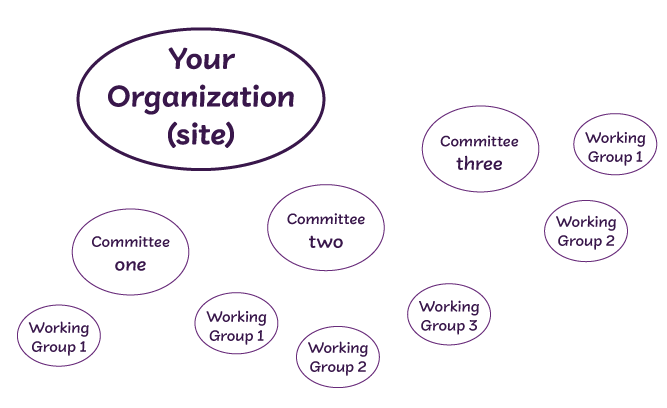
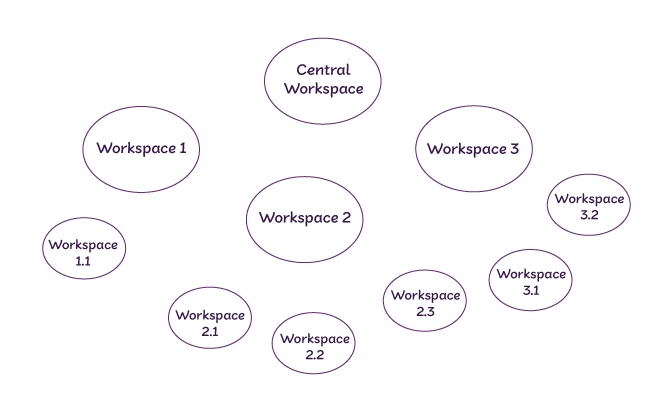
udates to website

diff --git a/circleweaver_com/Pricing.html b/circleweaver_com/Pricing.html
@@ -13,7 +13,7 @@
   <body>
     <header id="masthead" class="site-header">
       <div class="site-header-main container-fluid">
-        <div class="site-branding">
+        <div class="site-branding pl-5">
           <a href="index.html" class="custom-logo-link" rel="home" itemprop="url">
             <img src="images/cropped-weaver-logotype-1.png" class="custom-logo" alt="Circle Weaver" itemprop="logo" width="300" height="110"><p class="h4">Weave Your Group Together</p></a>
           <p class="site-title"><a href="index.html" rel="home">Circle Weaver</a></p>
@@ -67,7 +67,10 @@
 
     <section class="container-fluid m-3 pb-5">
       <div class="row col-12 mx-5 d-flex mt-5 mb-0">
-          <h1><b>Super Simple Pricing Structure</b></h1>
+          <h1><b>What is Circle Weaver?</b></h1>
+      </div>
+      <div class="row col-10 mx-5 d-flex">
+          <span class="h3 px-3">Circle Weaver helps you create a shared office space. A Circle Weaver Site is a virtual setting that supports clear communication and collaboration, keeping your organization functioning smoothly.</span>
       </div>
     </section>
     <section class="jumbotron row pb-5">
@@ -79,7 +82,7 @@
                 <img src="images/check.png" class="ml-1" alt="checkmark" aria-hidden="true">
             </span>
             <span class="col-11">           
-              <p class="bio-text" style="line-height: 1.6em;">CircleWeaver is a web-based application that allows you to create a site for your organization.</p>
+              <p class="bio-text" style="line-height: 1.6em;">Circle Weaver is a web-based application that allows you to create an online office space for your company or organization.</p>
             </span>
           </div>
           <div class="row col-12 d-flex">
@@ -87,7 +90,7 @@
               <img src="images/check.png" class="ml-1" alt="checkmark" aria-hidden="true">
             </span>
             <span class="col-11">
-              <p class="bio-text" style="line-height: 1.6em;">You can create and manage Workspaces for each committee or working group.</p>
+              <p class="bio-text" style="line-height: 1.6em;">You can create and manage Workspaces for each department, committee, or working group.</p>
             </span>
           </div>
           <div class="row col-12 d-flex">
@@ -96,7 +99,7 @@
             </span>
             <span class="col-11">
               <p class="bio-text" style="line-height: 1.6em;">Your CircleWeaver Site will grow with your organization...</p> 
-              <p class="h3 float-right" ><b>And you can start for free! </b>
+              <p class="h3 float-right"><b>And there is no cost to start!</b>
               </p>
             </span>  
           </div>
@@ -118,15 +121,15 @@
               <img alt="Weaver Workspace Icon" src="images/workspace-icon.png" data-holder-rendered="true"></span>
             <span class="col-9 mt-3" >
               <h3 style="line-height: 1.2em;">1 CircleWeaver Workspace</h3>
-              <p class="bio-text px-3">The Workspace supports a group of people working together on a project.</p>
+              <p class="bio-text px-3">A Workspace supports a group of people working together.</p>
             </span>
           </div>
           <div class="row col-12 d-flex ml-5 pl-5">
             <span class="col-2 mt-2">
               <img alt="Weaver User Icon" src="images/user-icon.png" data-holder-rendered="true"></span>
             <span class="col-9 mt-3 mr-2">
-              <h3 style="line-height: 1.2em;">1 Workspace Administrator</h3>
-              <p class="bio-text px-3">The Administrator manages and makes organizational changes to the site and can serve as a steward in any Workspace within the site.</p>
+              <h3 style="line-height: 1.2em;">1 Site Administrator</h3>
+              <p class="bio-text px-3">The Administrator manages and makes organizational changes to the Site and can serve as a Steward in any Workspace within the Site.</p>
             </span>
           </div>
           <div class="row col-12 d-flex ml-5 pl-5">
@@ -134,8 +137,8 @@
                 <img alt="Weaver User Icon" src="images/users-icon.png" data-holder-rendered="true"></span>
               <span class="col-9 mt-3 mr-2">
                 <h3 >Plus up to 20 Members!</h3>
-                <p class="bio-text px-3">Unpaid users with read-only access will still be able to attend meetings, access
-                materials, receive email, and participate in the group with comments and responses to questions.</p>
+                <p class="bio-text px-3">Basic users attend meetings, access
+                materials, receive email, and participate in meetings and group discussions with comments and responses to questions.</p>
               </span>
           </div>
         </span>
@@ -145,7 +148,7 @@
     </section>
     <section class="jumbotron row pb-5">
       <div class="container-fluid row col-12 d-flex pl-5 ml-5">
-        <h2 class="ml-5 mb-5">Grow your Circle Weaver Site with additional Workspaces!</h2>
+        <h2 class="ml-5 mb-5">Step Two: Grow your Circle Weaver Site with additional Workspaces!</h2>
       </div>
       <div class="container-fluid d-flex pl-5 ml-3">
         <span class="mr-0 pr-0 pl-5">
@@ -153,15 +156,15 @@
             <span class="col-1 mt-2">
               <img alt="Weaver Workspace Icon" src="images/addWorkspace-icon.png" data-holder-rendered="true"></span>
             <span class="col-10 mt-3 ml-5">
-              <h3 style="line-height: 1.6em;">Need an Additional Active Workspace? &nbsp; &nbsp; &nbsp; &nbsp; &nbsp;$2 per month</h3>
-              <p class="bio-text pl-3" style="line-height: 1.5em;"> With each paid (Active) Workspace, you get 4 additional Frozen Workspaces.<br><em>Only Active Workspaces are charged. Workspaces can be frozen at any time and then cost nothing.</em> </p></span>
+              <h3 style="line-height: 1.6em;">Need Additional Workspaces? &nbsp; &nbsp; &nbsp; &nbsp; &nbsp;$2 each per month</h3>
+              <p class="bio-text pl-3" style="line-height: 1.5em;"> You can control the number of Workspaces that you pay for each month.<br>Each workspace will need at least one Steward who is a full user and able to edit the Workspace.<br><em>Administrators can set limits on the number of workspaces allowed in the site.</em></p></span>
           </div>
           <div class="row col-12 row-cols-2 d-flex ml-5 pl-5">
             <span class="col-1 mt-2">
               <img alt="Weaver Workspace Icon" src="images/addUser-icon.png" data-holder-rendered="true"></span>
             <span class="col-10 mt-3 ml-5">
               <h3 style="line-height: 1.6em;">Need Additional Stewards? &nbsp; &nbsp; &nbsp; &nbsp; &nbsp;$1 per month</h3>
-              <p class="bio-text pl-3" style="line-height: 1.5em;">Additional paid users can be added to any Workspace at any time for $1 per user.<br><em>Administrators can set limits on the number of paid users allowed in the site.</em></p></span>
+              <p class="bio-text pl-3" style="line-height: 1.5em;">With additional workspaces, you may need additional Stewards, who are full users and can edit and organize a Workspace. You can add Stewards at any time for $1 per user per month.<br><em>Administrators can set limits on the number of full users allowed in the site.</em></p></span>
           </div>
         </span>
       </div>

diff --git a/circleweaver_com/Facilitators.html b/circleweaver_com/Facilitators.html
@@ -146,7 +146,19 @@
           <div class="row col-10 row-cols-2 m-5 d-flex">
             <span class="col-2"><img class="rounded-circle img-fluid" alt="Swarnalakshmi Ravi" src="images/swarna.png" data-holder-rendered="true"></span>
     
-            <span class="col-10"><h3>Swarnalakshmi Ravi</h3><p class="bio-text">Swarnalakshmi R, is a motivational speaker and holds two master degrees, one in Political Science from the University of Madras in India and another in international relations and global governance from Aston university in England where received one of ten scholarships for academic excellence from over 1000 applicants. The first person from India ever to receive one of the International Vice Chancellor scholarships. She became A certified facilitator in sociocracy Governance Method at the age of 22 after receiving a training from Governance Alive. Served in various positions of responsibilities in the Inclusive Neighbourhood Children’s Parliaments movement of India including as its National Child Prime Minister which also uses sociocracy as its governance method. Experienced at networking and team building through working with the children’s parliaments for 13 years. Helped to build a board software for children to efficiently organize and conduct meetings. At the age of 21, participated in making 2 app pitches to the Venture Capitalists of Silicon valley and EBAN. Addressed in United Nations four times as a keynote speaker at the ages of 13, 14, 16 and 17 advocating for Inclusive Education and for the prevention on violence against women and girls. Lobbied with the ambassadors and diplomats of about 20 countries. At present, also support for the World Children’s Parliament as a Global Convenor networking with children from across different continents whenever possible.</p>
+            <span class="col-10"><h3>Swarnalakshmi Ravi</h3><p class="bio-text">Swarnalakshmi R, is a motivational speaker and holds two master degrees, one in Political Science from the University of
+            Madras in India and another in international relations and global governance from Aston University in England, where she
+            received one of ten scholarships for academic excellence from over 1000 applicants and is the first person from India
+            ever to receive one of the International Vice Chancellor scholarships. She became A certified facilitator in sociocracy
+            Governance Method at the age of 22 after receiving training from Governance Alive. Swarnalakshmi held the position of
+            National Child Prime Minister and other positions of responsibility in the Inclusive Neighbourhood Children’s
+            Parliaments movement of India, which also uses sociocracy as its governance method. Experienced in networking and team
+            building through working with the children’s parliaments for 13 years, she helped to build a board software for children
+            to efficiently organize and conduct meetings. At the age of 21, she participated in making 2 app pitches to the Venture
+            Capitalists of Silicon Valley and EBAN. She has addressed the United Nations four times as a keynote speaker at the ages
+            of 13, 14, 16, and 17, advocating for Inclusive Education and the prevention of violence against women and girls, and
+            continues to lobby with the ambassadors and diplomats of about 20 countries. At present, she supports the World
+            Children’s Parliament as a Global Convenor, networking with children from across different continents whenever possible..</p>
               <p class="h5 my-1 ms-2"><a href="mailto:swarnalakshmiravi27@hotmail.com"><i class="fa fa-envelope-o"></i> swarnalakshmiravi27@hotmail.com</a></p>
               <p class="h5 my-1 ms-2"><i class="fa fa-map-marker"></i> Chennai, Tamil Nadu, India</p>
               <p class="h5 my-1 ms-2"><a href="https://www.linkedin.com/in/swarnalakshmi-ravi-3a8a1a191/" target="_blank"><i class="fa fa-linkedin-square" ></i> </a></p>            

diff --git a/circleweaver_com/css/weaverStyles9.22.css b/circleweaver_com/css/weaverStyles9.22.css
@@ -40,13 +40,13 @@
 .footer-menu li.nav-item {
   font-weight: 400;
   align-items: center;
-  color      : #ffffff;
+  color      : #ecece8;
 }
 
 .footer-menu li.nav-item.active a {
   font-weight: 400;
   align-items: center;
-  color      : #ffffff;
+  color      : #ecece8;
 }
 
 #menu-toggle {
